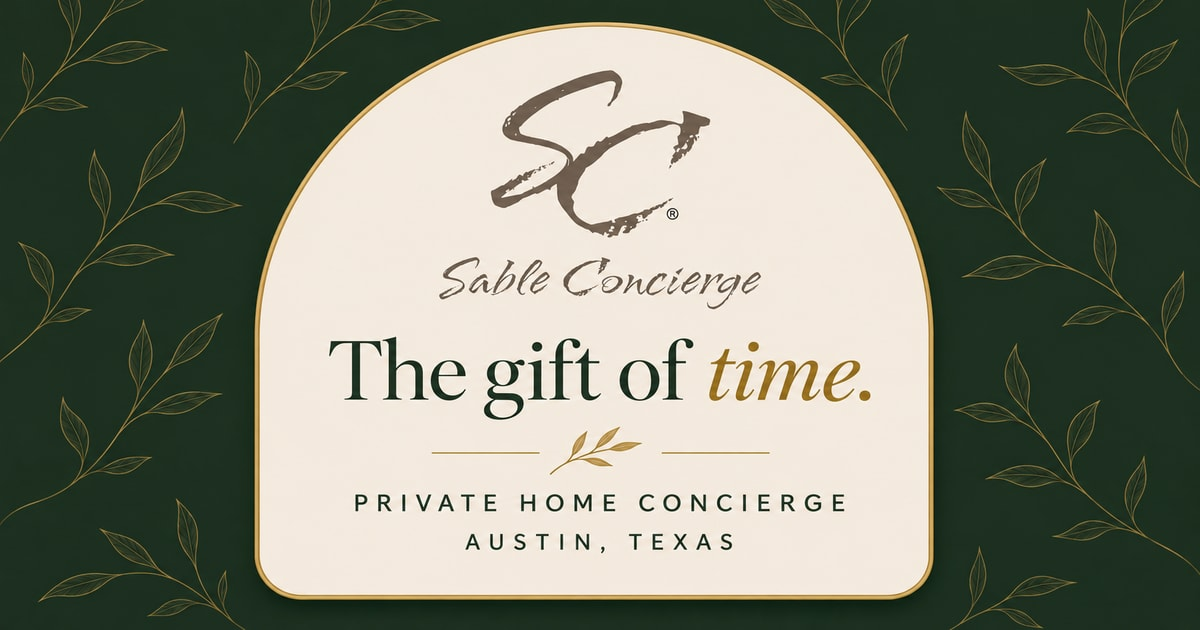
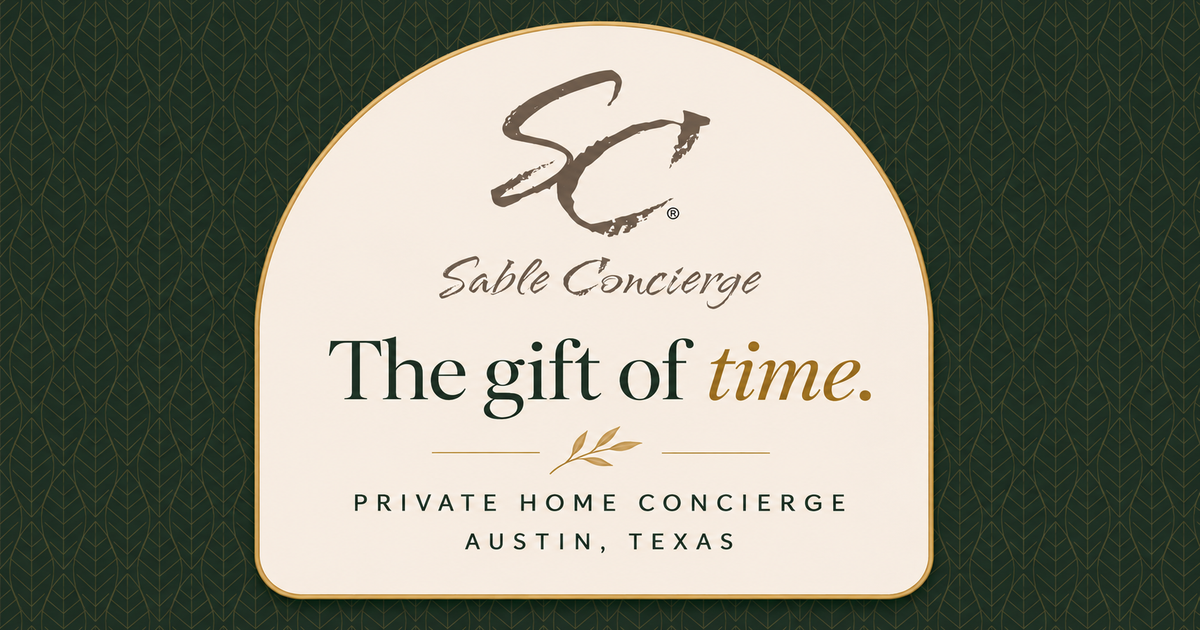
Match social preview background to site leaf lattice

diff --git a/app/layout.tsx b/app/layout.tsx
@@ -30,7 +30,7 @@ export const metadata: Metadata = {
     url: "/",
     type: "website",
     images: [{
-      url: "/social/sable-concierge-arch-v2.jpg",
+      url: "/social/sable-concierge-lattice-v3.jpg",
       width: 1200,
       height: 630,
       alt: "Sable Concierge — The gift of time. Private home concierge in Austin, Texas.",
@@ -39,7 +39,7 @@ export const metadata: Metadata = {
   twitter: {
     card: "summary_large_image",
     images: [{
-      url: "/social/sable-concierge-arch-v2.jpg",
+      url: "/social/sable-concierge-lattice-v3.jpg",
       alt: "Sable Concierge — The gift of time. Private home concierge in Austin, Texas.",
     }],
   },
